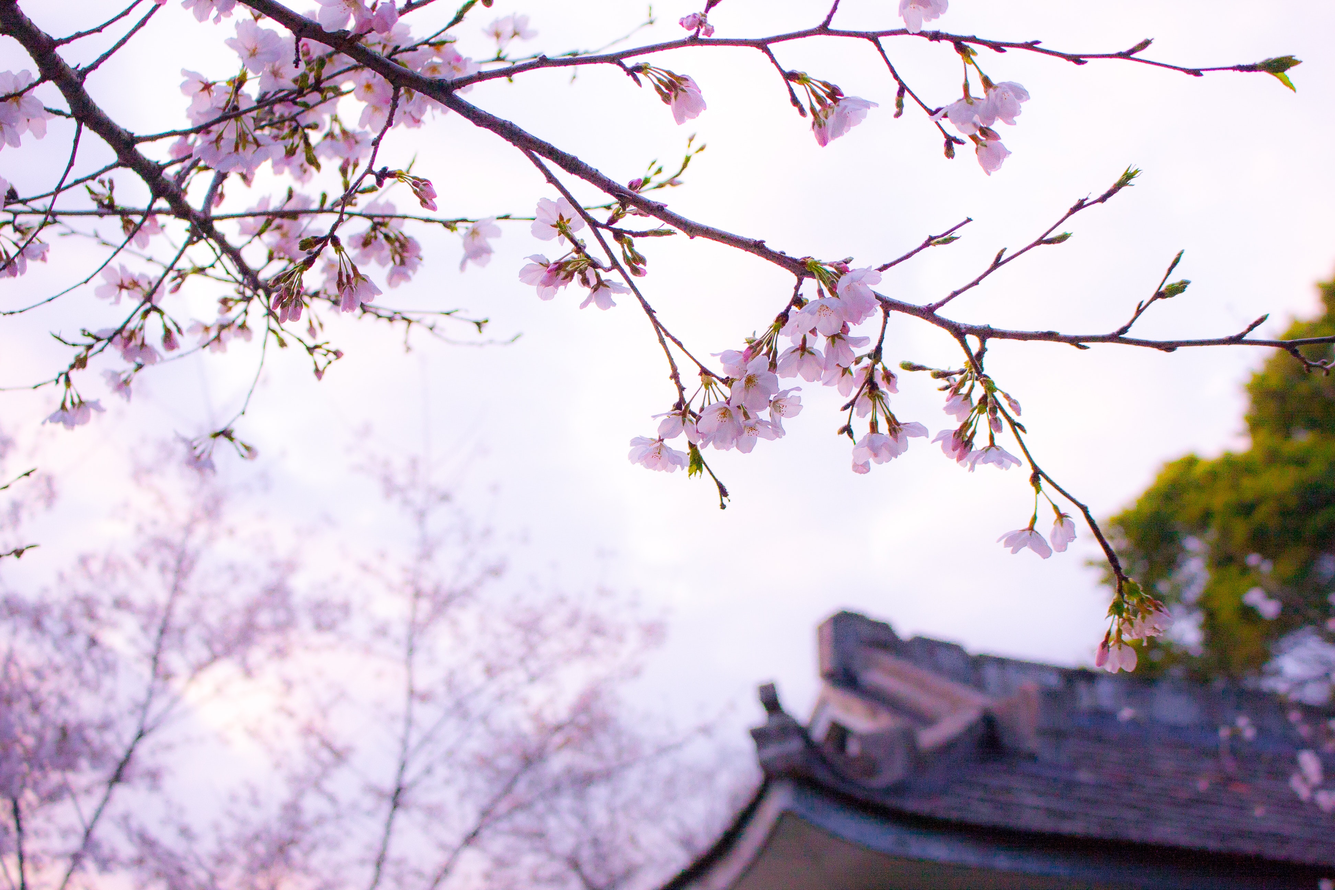
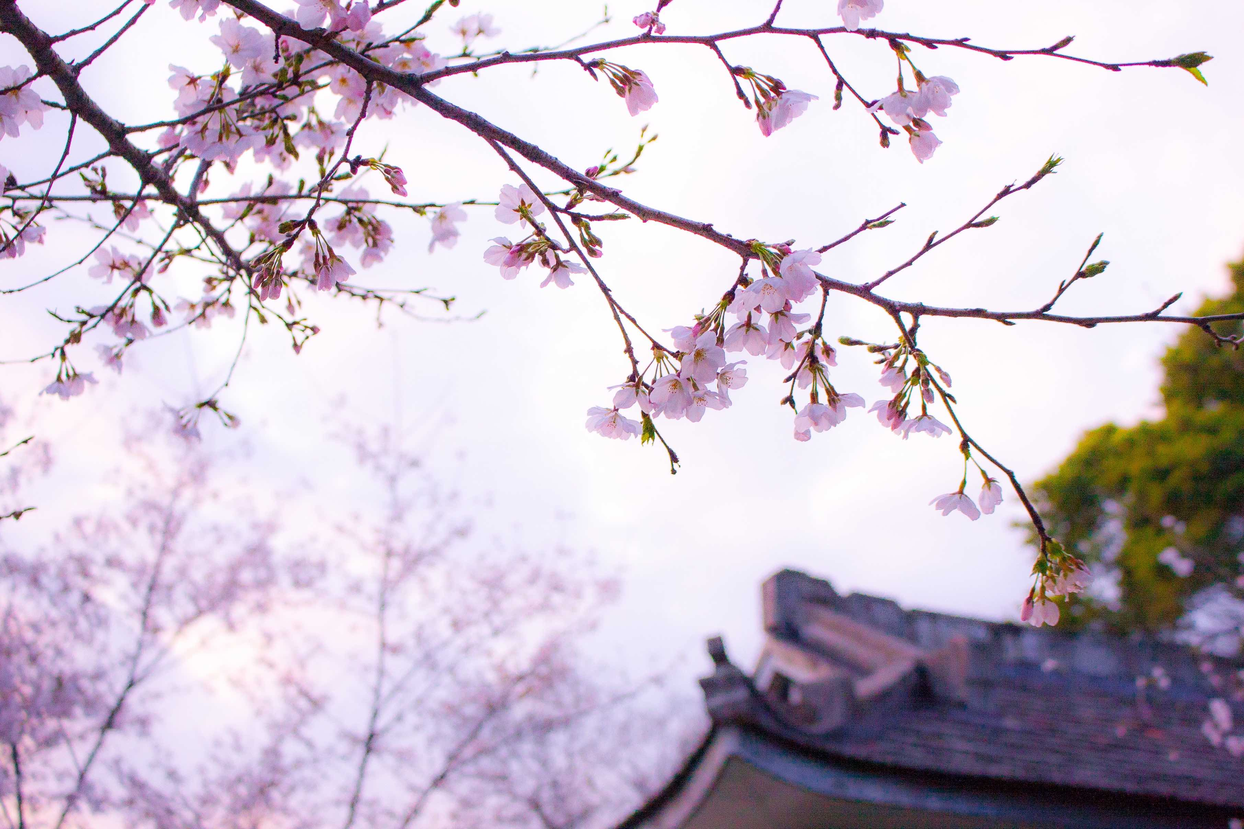
Reduced header image size
Improved center and sizing of header to prevent unwanted offset and repeat on phone screens. Tested using chrome views and iphone

diff --git a/src/components/all.sass b/src/components/all.sass
@@ -159,10 +159,12 @@ $menu-label-color: $white-ter
     max-width: 70%;
     margin: 0 0 1em;
   .header-image
-    background-position: center center
+    background-position: 0% 0.6%
     background-attachment: fixed
-    height: 60vw
+    height: 50vw
     background-size: contain
   .mobile-larger
     margin: 0 -3rem 0 -3rem
+  .full-width-image-container
+    margin: 2em -50vw 0px
 
